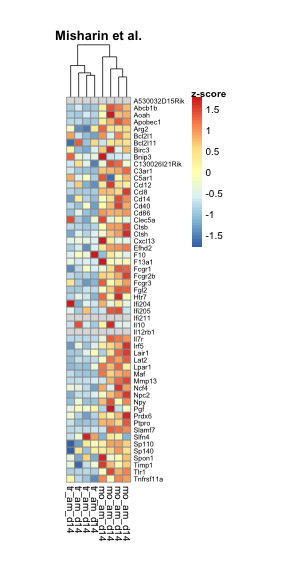
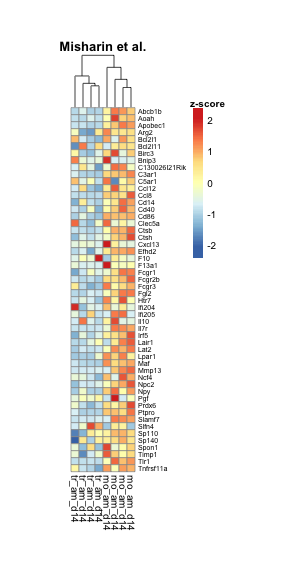
updating README with Fig2b code

Changed region(s): [[0.1875, 0.0312, 0.7812, 0.9375]]

diff --git a/code/20190412_Fluomics.fig2b.md b/code/20190412_Fluomics.fig2b.md
@@ -26,7 +26,8 @@ Define session options
 ```r
 workDir <- dirname(getwd())
 opts_chunk$set(tidy = FALSE, fig.path = "../figure/")
-options(stringsAsFactors  = FALSE)
+options(stringsAsFactors  = FALSE,
+	readr.num_columns = 0)
 ```
 
 Load GSEA output
@@ -136,21 +137,7 @@ countFile <- basename(supFileLS$rowname)
 mouldDF <- read_tsv(file = countFile) %>%
   as.data.frame() %>%
   column_to_rownames(var = "GeneID")
-```
 
-```
-## Parsed with column specification:
-## cols(
-##   .default = col_double(),
-##   GeneID = col_character()
-## )
-```
-
-```
-## See spec(...) for full column specifications.
-```
-
-```r
 mouldAnnotDF <- data.frame(condition = gsub(pattern = "_rep[0-9]",
                                        replacement = "",
                                        names(mouldDF)),
@@ -161,7 +148,7 @@ mouldAnnotDF <- data.frame(condition = gsub(pattern = "_rep[0-9]",
 unlink(countFile)
 ```
 
-Indentify leading edge genes
+Identify leading edge genes
 
 ```r
 leGenes <- gseaOutput %>%
@@ -190,16 +177,9 @@ leGenes <- filter(leGenes, Gene.stable.ID %in% top$rowname)
 # filter on genes annotated in all expression matrix
 leGenes <- leGenes %>%
   filter(Gene.stable.ID %in% featureNames(seqSet)) %>%
-  filter(Gene.stable.ID %in% rownames(mashirinDF)) %>%
+  filter(Gene.stable.ID %in% rownames(misharinDF)) %>%
   filter(Gene.stable.ID %in% rownames(mouldDF)) %>%
   filter(!duplicated(Gene.stable.ID))
-```
-
-```
-## Error in rownames(mashirinDF): object 'mashirinDF' not found
-```
-
-```r
 # filter on macrophages markers
 generifPath <- file.path(workDir, "utils/generifs_basic")
 generif <- scan(file = generifPath, what = "raw", sep = "\n")
@@ -303,13 +283,6 @@ breakLS <- c(-1 * max(abs(mat)),
 		 to         = min(abs(range(mat))),
 		 length.out = 99),
 	     max(abs(mat)))
-```
-
-```
-## Error in seq.default(from = -1 * min(abs(range(mat))), to = min(abs(range(mat))), : 'from' must be a finite number
-```
-
-```r
 pheat <- pheatmap(mat,
 		  cellwidth    = 8,
 		  breaks       = breakLS,

diff --git a/README.md b/README.md
@@ -1,7 +1,7 @@
 # FluOMICS lung: source code #
 
 ## List of figures:
-[Fig. 1A](#fig-1a), [Fig. 1D](#fig-1d), [Fig. 2A](#fig-2a)  
+[Fig. 1A](#fig-1a), [Fig. 1D](#fig-1d), [Fig. 2A](#fig-2a), [Fig. 2B](#fig-2b)  
 
 ### Fig. 1A
 ![Fig. 1A](figure/Fig1A.png)
@@ -14,6 +14,10 @@ Fig. 1D: [R code [MD]](code/20190408_Fluomics.fig1d.md), [Input files [RDA]](out
 ### Fig. 2A
 ![Fig. 2A](figure/Fig2A.png)  
 Fig. 2A: [R code [MD]](code/20190412_Fluomics.fig2a.md), [Input files [RDA]](output/fluomics.seqSetRaw.RData)  
+
+### Fig. 2B
+![Fig. 2B](figure/Fig2B.png)  
+Fig. 2A: [R code [MD]](code/20190412_Fluomics.fig2b.md), [Input files [TSV]](utils/Macrophage.gmt)  
 
 
 ## Supplemental material:
